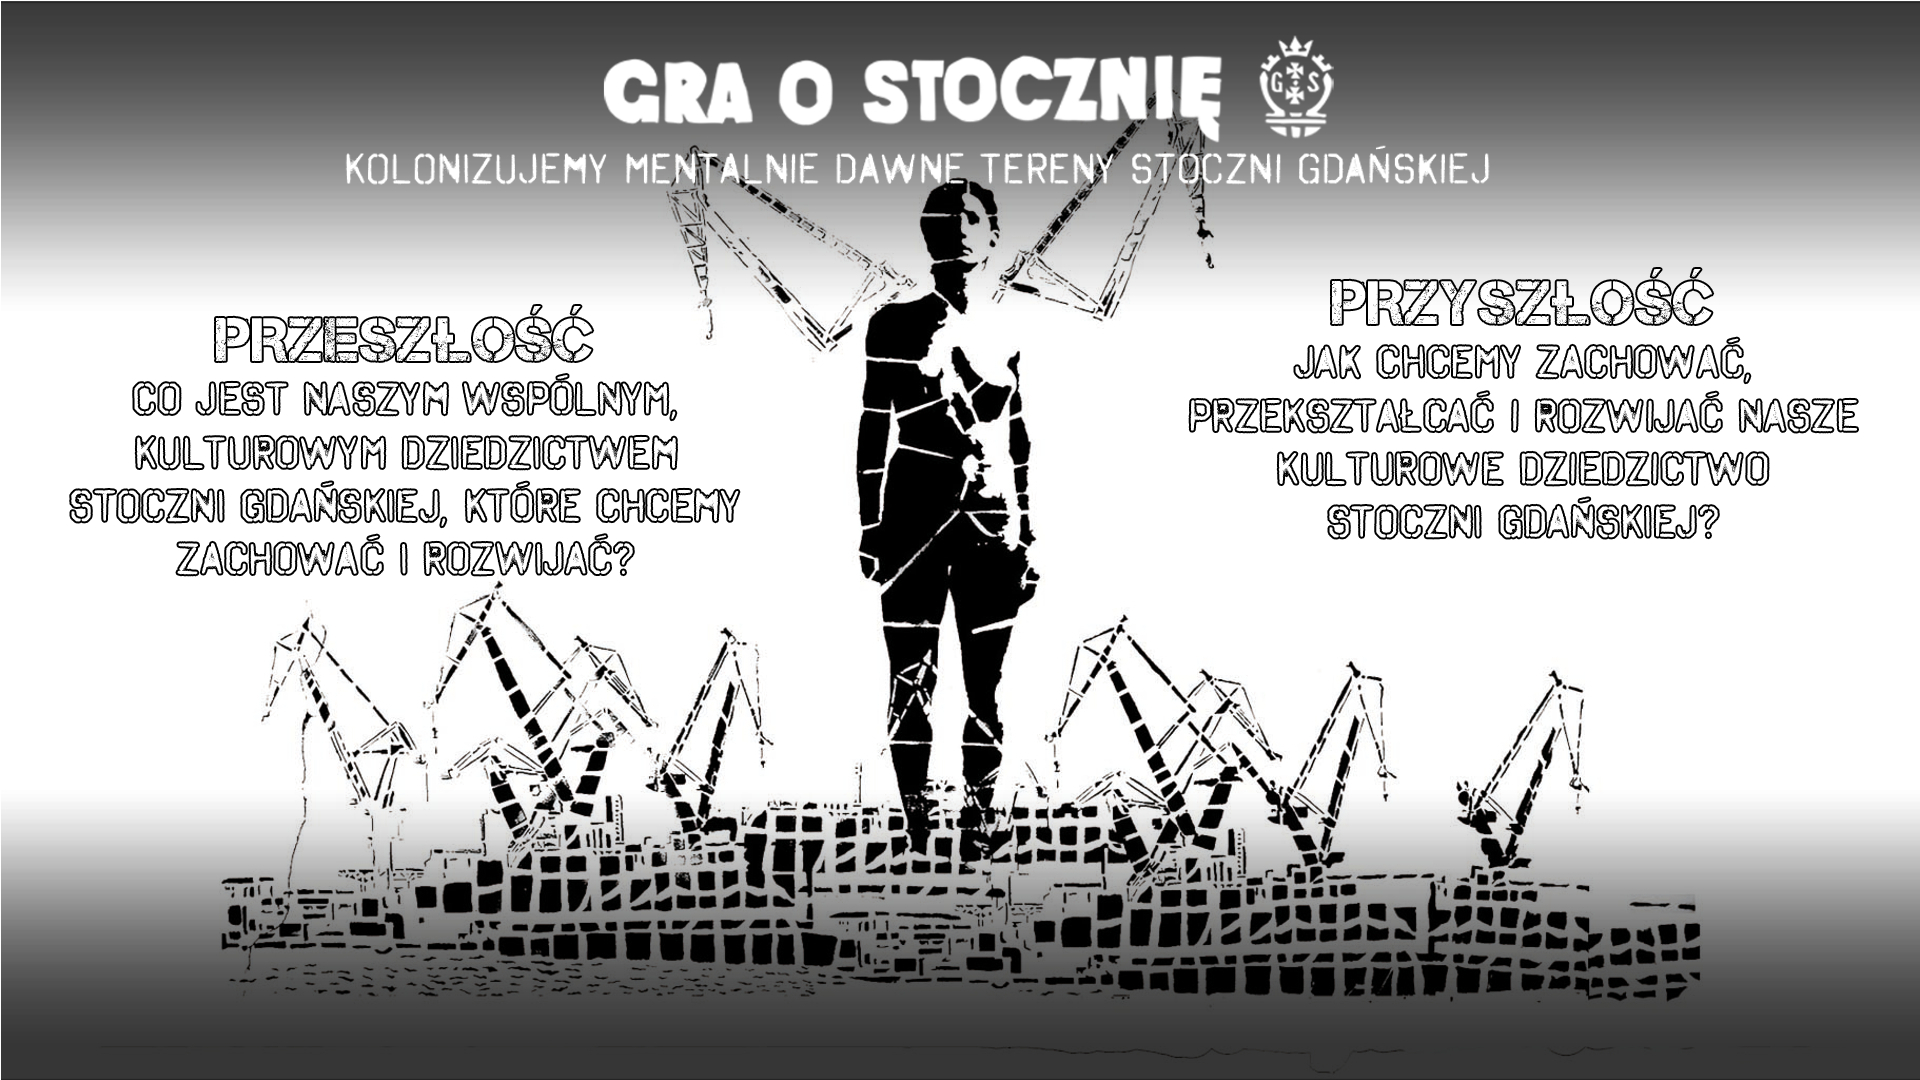
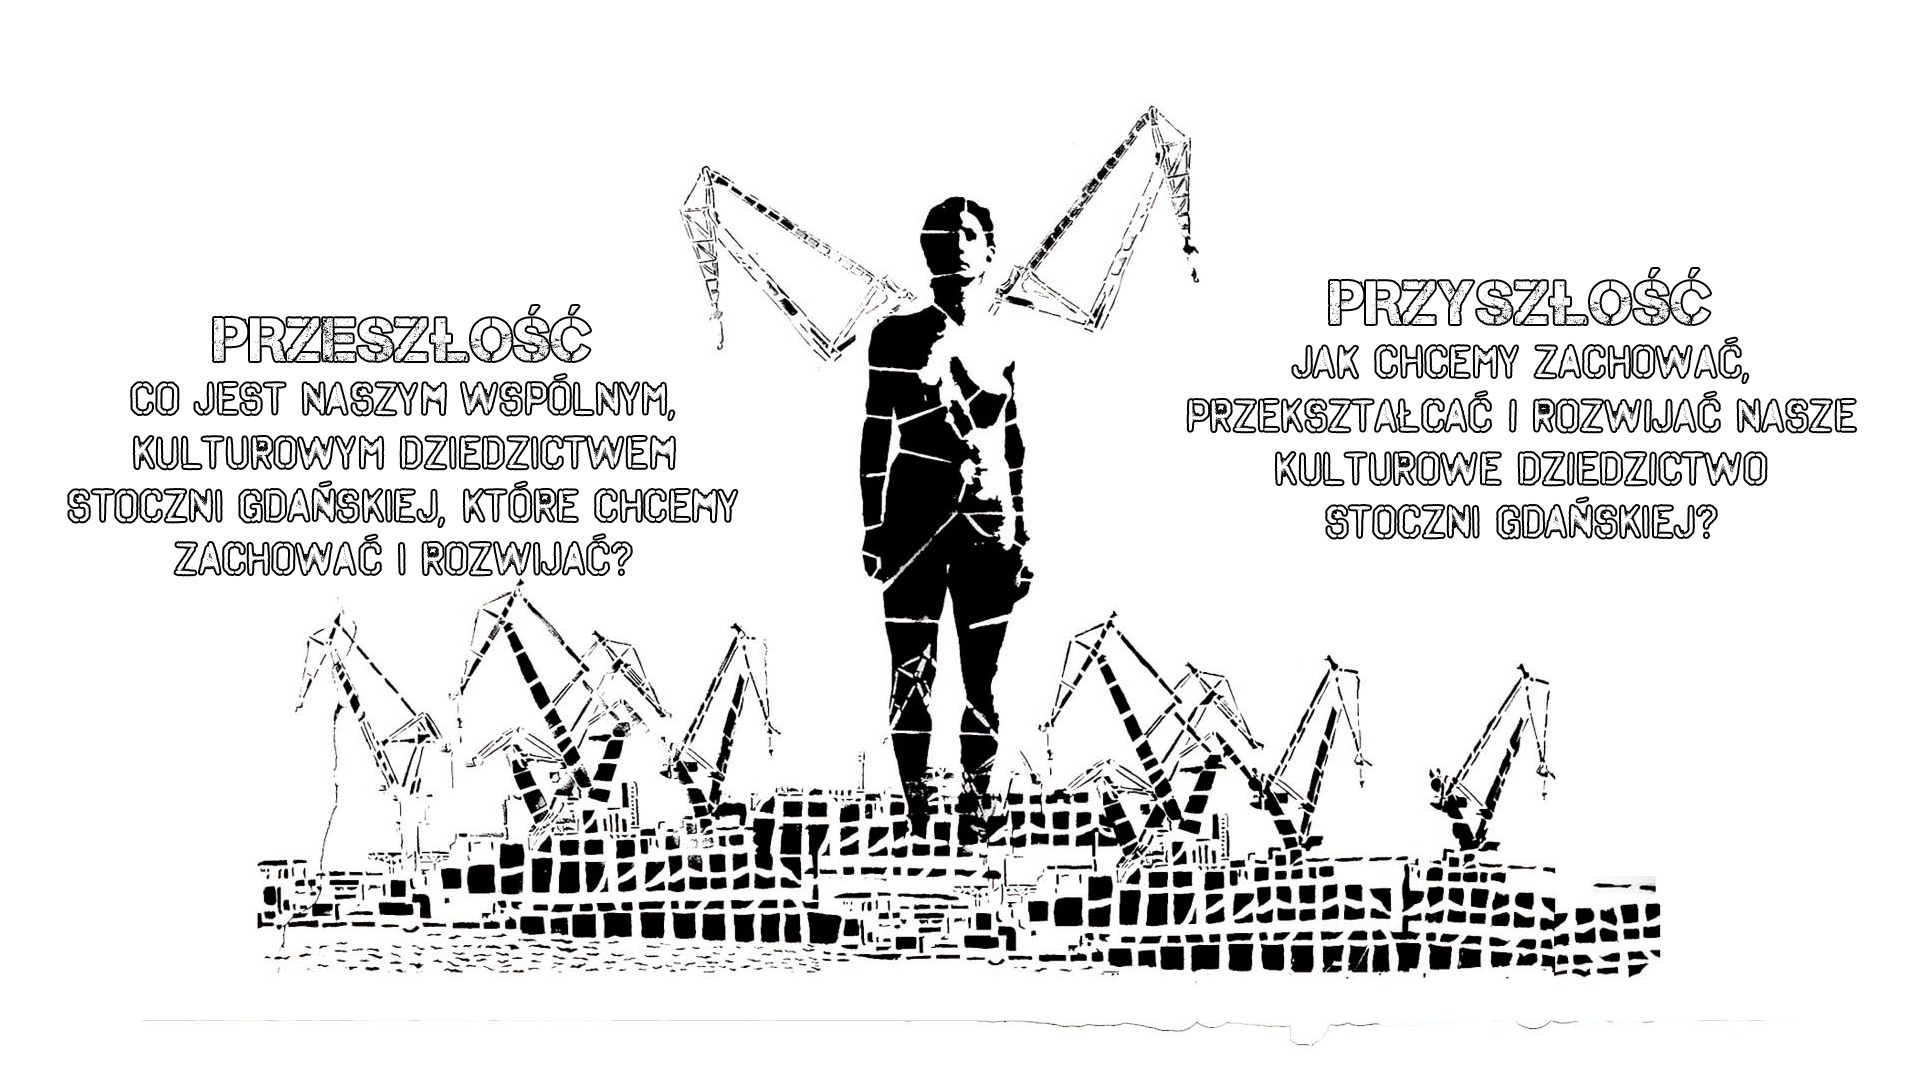
Zmiany dla Romana 2

diff --git a/views/index.html b/views/index.html
@@ -39,7 +39,11 @@
   </ol>
 -->
   <!-- Wrapper for slides -->
-  <div class="carousel-inner hello" role="listbox">
+  <div class="carousel-inner hello" style="background-image: url('../images/pierwszyEkran/tlo1.jpg');
+background-size: auto 100%; width:100%;
+  background-repeat:no-repeat;
+  background-size:auto 100%;
+  background-position: center center;" role="listbox">
     
     <div class="item active tlo1">
     <!--<a class="right carousel-control"style="margin-top:85vh" href="#carousel-example-generic" role="button" data-slide="next">
@@ -86,15 +90,15 @@
       </div><!--carousel-caption-->
     </div><!--tlo1-->
 
-    <div class="item tlo2" style="color:black;">
-    <a class="left carousel-control" href="#carousel-example-generic" role="button" data-slide="prev">
-      <span class="glyphicon glyphicon-chevron-left" aria-hidden="true"></span>
-      <span class="sr-only">Previous</span>
-    </a>
-    <!--<a class="right carousel-control"href="#carousel-example-generic" role="button" data-slide="next">
+    <div class="item tlo2" style="background:white" style="color:black;">
+    <!--<a class="left carousel-control" href="#carousel-example-generic" role="button" data-slide="next">
       <span class="glyphicon glyphicon-chevron-right" aria-hidden="true"></span>
-      <span class="sr-only">Next</span>
+      <span class="sr-only">Previous</span>
     </a>-->
+    <a class="right carousel-control " id="holl" href="#carousel-example-generic" role="button" data-slide="prev">
+      <span class="glyphicon glyphicon-chevron-left" aria-hidden="true"></span>
+      <span class="sr-only">Next</span>
+    </a>
     <div class="carousel-caption" style="top: 0px;">
       <!--lewa strona-->
       <div class="col-md-6">
@@ -106,33 +110,33 @@
         </p>
         <p style="text-align:right;font-size:13px;line-height:13px;margin-top: 0px;margin-right-value: 0px;margin-bottom: 0px;
         margin-left-value: 0px;">
-          fot. Roman Sebastyński (2006)
+          fot. Roman Sebastyański (2006)
         </p>
         <img src="images/pierwszyEkran/TUTAJ.png" style="width:100%" />
         <div class="col-md-10" style="padding-left: 0px;">
         <p style="font-size:12px">
           Mural " Stocznia " (o łącznej powieszchni ok. 250m2) został wykonany techniką szablonów i znajdował  się na zewnętrznej części stoczniowego muru przy ul. Jana z Kolna, w okolicach budynku 141B (dawnego biura projektowgo) oraz bramy nr 3. Prezentował wypowiedzi stoczniowców, którzy przepracowali w tym miejscu około 40 lat.
         <br>
-          Wraz ze zburzeniem muru w styczniu 2013 roku, w celu poszerzenia ul. jana z kolna (w przyszłości), działo zostało przeniesione do przestrzeni wirtualnej w ramach projektu " <a href="http://www.stoczniaweterze.com/" style="text-decoration: underline;"> Stocznia w eterze </a> ".
+          Wraz ze zburzeniem muru w styczniu 2013 roku, w celu poszerzenia ul. jana z kolna (w przyszłości), działo zostało przeniesione do przestrzeni wirtualnej w ramach projektu " <a href="http://www.stoczniaweterze.com/" target="_blank" style="text-decoration: underline;"> Stocznia w eterze </a> ".
         </p>
 
         </div>
         <div class="col-md-2">
-        <a href="http://www.stoczniaweterze.com/"><img src="images/pierwszyEkran/sto1.png" style="width:80%" /> </a> <a href="http://www.stoczniaweterze.com/"><p style="font-size:10px">Stocznia w eterze<p></a>
+        <a href="http://www.stoczniaweterze.com/" target="_blank"><img src="images/pierwszyEkran/sto1.png" style="width:80%" /> </a> <a href="http://www.stoczniaweterze.com/" target="_blank"><p style="font-size:10px">Stocznia w eterze<p></a>
         </div>
       </div>
       <!--prawa strona-->
       <div class="col-md-6">
         <div style="padding-top:4vh;transform:rotate(-10deg); -webkit-transform:rotate(-10deg); 
 -moz-transform:rotate(-10deg); -o-transform:rotate(-10deg); font-size:14px"><p>
-        Wystawa czynna w dniach <span style="color:red">1-31 lipca 2015 (7/24)</span> <br>
-        przygotował : Roman Sebastyński</p>
+        Wystawa czynna w dniach <span style="color:red">1-31 sierpnia 2015 (7/24)</span> <br>
+        przygotował : Roman Sebastyański</p>
         </div>
 
 
-        <p style="font-size:15px; padding-top:13vh; ">Iwona Zając jest pionierką astystycznej kolonizacji dawnych terenów Stoczni Gdańskiej od roku 2002. Posiadła pracownie w "Centrali" (dawnym budynku centrali telefonicznej i zakładowego radiowęzła).<br><br>W latach 2003 i 2004 zoranizowała Międzynarowy Plener Młodych Artystów " <a href="https://konfrontacje.wordpress.com/ " style="text-decoration: underline;">Stocznia-spojrzenie z zewnątrz / Konfrontacje </a> " - wspólnie z brytyjską artystką Ell Southern z Bristolu i artystka z Warszawy Ewa Majewska. Podczas tego pleneru stworzyła cykl obrazów olejnych " Po godzinach " zestawionych z 12 obrazami stoczniowców ze Stowarzyszenia Artystów Amatorów, które działało w Stoczni do połowy lat 80. Kiedyś wisiały w halach, biurach, czy szatniach. W 2007 roku została wrzucona ze swojej pracowni (i ze Stoczni) wraz ze wszystkimi Kolonistami z "Centrali" przez właściciela terenu - duńską firme BPTO<p>
-             <div class="col-md-8"><a href="https://konfrontacje.wordpress.com/ " ><img style="max-width:75%" src="images/pierwszyEkran/plakat.jpg"></a><p style="font-size:10px;line-height:10px">Pocztówka promująca projekt z archiwum (Romana Sebastyńskiego)</p></img></div>
-             <div class="col-md-4"><a href=" https://konfrontacje.wordpress.com/category/iwona-zajac/ " ><img style="max-width:80%" src="images/pierwszyEkran/helo.jpg"></a><p style="font-size:10px;line-height:10px">Autoportret artystki z galerii " <a href=" https://konfrontacje.wordpress.com/category/iwona-zajac/ " style="text-decoration: underline;">po godzinach</a>  " </p></img></div>
+        <p style="font-size:15px; padding-top:13vh; ">Iwona Zając jest pionierką astystycznej kolonizacji dawnych terenów Stoczni Gdańskiej od roku 2002. Posiadła pracownie w "Centrali" (dawnym budynku centrali telefonicznej i zakładowego radiowęzła).<br><br>W latach 2003 i 2004 zoranizowała Międzynarowy Plener Młodych Artystów " <a href="https://konfrontacje.wordpress.com/ "  target="_blank" style="text-decoration: underline;">Stocznia-spojrzenie z zewnątrz / Konfrontacje </a> " - wspólnie z brytyjską artystką Ell Southern z Bristolu i artystka z Warszawy Ewa Majewska. Podczas tego pleneru stworzyła cykl obrazów olejnych " Po godzinach " zestawionych z 12 obrazami stoczniowców ze Stowarzyszenia Artystów Amatorów, które działało w Stoczni do połowy lat 80. Kiedyś wisiały w halach, biurach, czy szatniach. W 2007 roku została wrzucona ze swojej pracowni (i ze Stoczni) wraz ze wszystkimi Kolonistami z "Centrali" przez właściciela terenu - duńską firme BPTO<p>
+             <div class="col-md-8"><a href="https://konfrontacje.wordpress.com/ "  target="_blank"><img style="max-width:75%" src="images/pierwszyEkran/plakat.jpg"></a><p style="font-size:10px;line-height:10px">Pocztówka promująca projekt z archiwum (Romana Sebastyańskiego)</p></img></div>
+             <div class="col-md-4"><a href=" https://konfrontacje.wordpress.com/category/iwona-zajac/ " target="_blank" ><img style="max-width:80%" src="images/pierwszyEkran/helo.jpg"></a><p style="font-size:10px;line-height:10px">Autoportret artystki z galerii " <a href=" https://konfrontacje.wordpress.com/category/iwona-zajac/ "  target="_blank" style="text-decoration: underline;">po godzinach</a>  " </p></img></div>
       </div> 
     </div>
 

diff --git a/public/stylesheets/pierwszyEkran.css b/public/stylesheets/pierwszyEkran.css
@@ -40,10 +40,10 @@ overflow-x: hidden;
 
 .tlo1{
 	height:100vh;
-	background-image: url('../images/pierwszyEkran/tlo1.jpg');
+	background-image: url('../images/pierwszyEkran/tl.png');
 	width:100%;
 	background-repeat:no-repeat;
-	background-size:100% auto;
+	background-size:100% 100%;
 	background-position: center center;
 
 }
@@ -179,6 +179,11 @@ cursor:pointer;
 }
 
 
+.carousel-control.right {
+    background-image: linear-gradient(to right, rgba(0, 0, 0, 0.5) 0px, transparent 100%);
+    background-repeat: repeat-x;
+    z-index: 30;
+}
 .carousel-control.left {
     background-image: linear-gradient(to right, rgba(0, 0, 0, 0.5) 0px, transparent 100%);
     background-repeat: repeat-x;
@@ -218,9 +223,9 @@ font-size:15px;
 .formSize{
     width:100px;
     position: relative;
-    opacity: 0.5;
-    -webkit-opacity: 0.5;
-    -moz-opacity: 0.5;
+    opacity: 1;
+    -webkit-opacity: 1;
+    -moz-opacity: 1;
     transition: 0.5s ease;
     -webkit-transition: 0.5s ease;
     -moz-transition: 0.5s ease;
@@ -252,4 +257,31 @@ p a:hover {
 }
 a:hover {
 	color:red;
-};
+}
+.carousel-control {
+    position: absolute;
+    top: 0px;
+    bottom: 0px;
+    left: 0px;
+    width: 10%;
+    font-size: 20px;
+    color: #FFF;
+    text-align: center;
+    background-image:url("../images/pierwszyEkran/buttontlo.png");
+    
+    opacity: 0.5;
+    height: 15vh;
+}
+
+.carousel-control.right {
+ background-image:url("../images/pierwszyEkran/buttontlo1.png");
+    /*background-repeat: repeat-x;*/
+    background-size: 100% 100%;
+    z-index: 30;
+}
+.carousel-control.right:hover {
+ background-image:url("../images/pierwszyEkran/buttontlohover1.png");
+    /*background-repeat: repeat-x;*/
+    background-size: 100% 100%;
+    z-index: 30;
+}

diff --git a/views/register.html b/views/register.html
@@ -55,8 +55,8 @@
                     </br>
                     <form method="post" action="/add_user" onsubmit='return validate_password("#password","#repeat_password")'>
 
-                        <input type='text' name='imie' placeholder="Imie użytkownika"/>
-                        <input type='text' name='nazwisko' placeholder="Nazwisko użytkownika"/>
+                        <input type='text' name='imie' placeholder="Imie uczestnika"/>
+                        <input type='text' name='nazwisko' placeholder="Nazwisko uczestnika"/>
                         <input type='text' name='email' placeholder="E-mail"/>
                         <input type='text' name='haslo' id='password' placeholder="Hasło"/>
                         <input type='text' name='phaslo' id='repeat_password' placeholder="Powtórz hasło"/>
